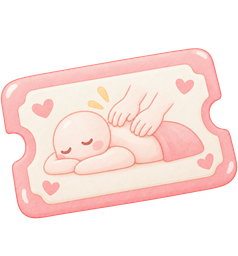
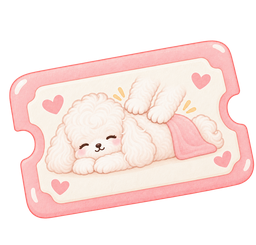
안마쿠폰 정리 — 사람손 버전 빼고 강아지 버전만
두 종류였던 안마 쿠폰 중 사람 손이 주무르는 그림(off-brand) 제거,
강아지가 안마받고 쉬는 그림을 massagecoupon으로 유지(restcoupon 정의·CARE 제거).
결과: 쿠폰은 강아지 안마쿠폰 하나(뭉친 데 풀어줄게).

Changed region(s): [[0.0, 0.1429, 1.0, 0.9143], [0.2059, 0.3143, 0.2647, 0.3429]]

diff --git a/src/lib/gifts.ts b/src/lib/gifts.ts
@@ -33,8 +33,7 @@ export const GIFT_ITEMS: GiftItem[] = [
   { id: 'bagel',        label: '베이글',     for: 'all',  msg: '아침 거르지 마' },
   { id: 'book',         label: '책',         for: 'all',  msg: '쉬면서 읽어' },
   { id: 'vitamin',      label: '비타민',     for: 'all',  msg: '아프지 말고' },
-  { id: 'massagecoupon', label: '안마쿠폰',  for: 'all',  msg: '뭉친 데 풀어줄게' },
-  { id: 'restcoupon',   label: '쉬는 쿠폰',  for: 'all',  msg: '오늘은 푹 쉬어' },
+  { id: 'massagecoupon', label: '안마쿠폰',  for: 'all',  msg: '뭉친 데 풀어줄게' },   // 강아지가 안마받고 쉬는 그림
   { id: 'crown',        label: '공주왕관',   for: '꼼이', msg: '오늘도 꼼이가 최고 👑' },
 ];
 export const giftImg = (id: string) => `/emo/gifts/${id}.png`;

diff --git a/src/components/LivingKkom.tsx b/src/components/LivingKkom.tsx
@@ -11,7 +11,7 @@ import { giveGift, subscribeGift, clearGift, giftsFor, giftById, giftImg, type G
 
 const V = 4;
 const emo = (name: string) => `/emo/sai-anim/${name}.webp?v=${V}`;
-const CARE = new Set(['blanket', 'flower', 'cocoa', 'giftbox', 'umbrella', 'book', 'vitamin', 'massagecoupon', 'restcoupon', 'crown']);
+const CARE = new Set(['blanket', 'flower', 'cocoa', 'giftbox', 'umbrella', 'book', 'vitamin', 'massagecoupon', 'crown']);
 const subjName = (n: string) => (n === '우댕' ? '우댕이' : '꼼이');
 
 type Mood = { name: string; caption: string };
